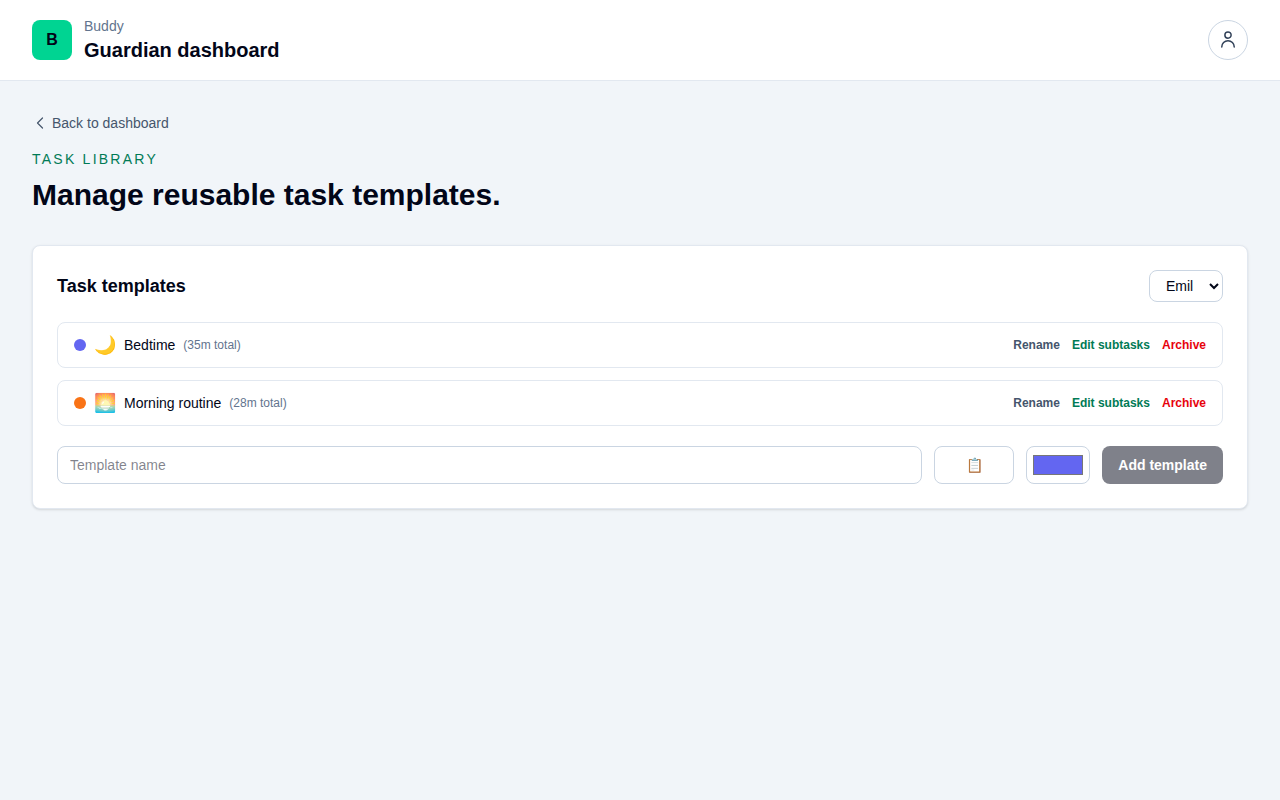
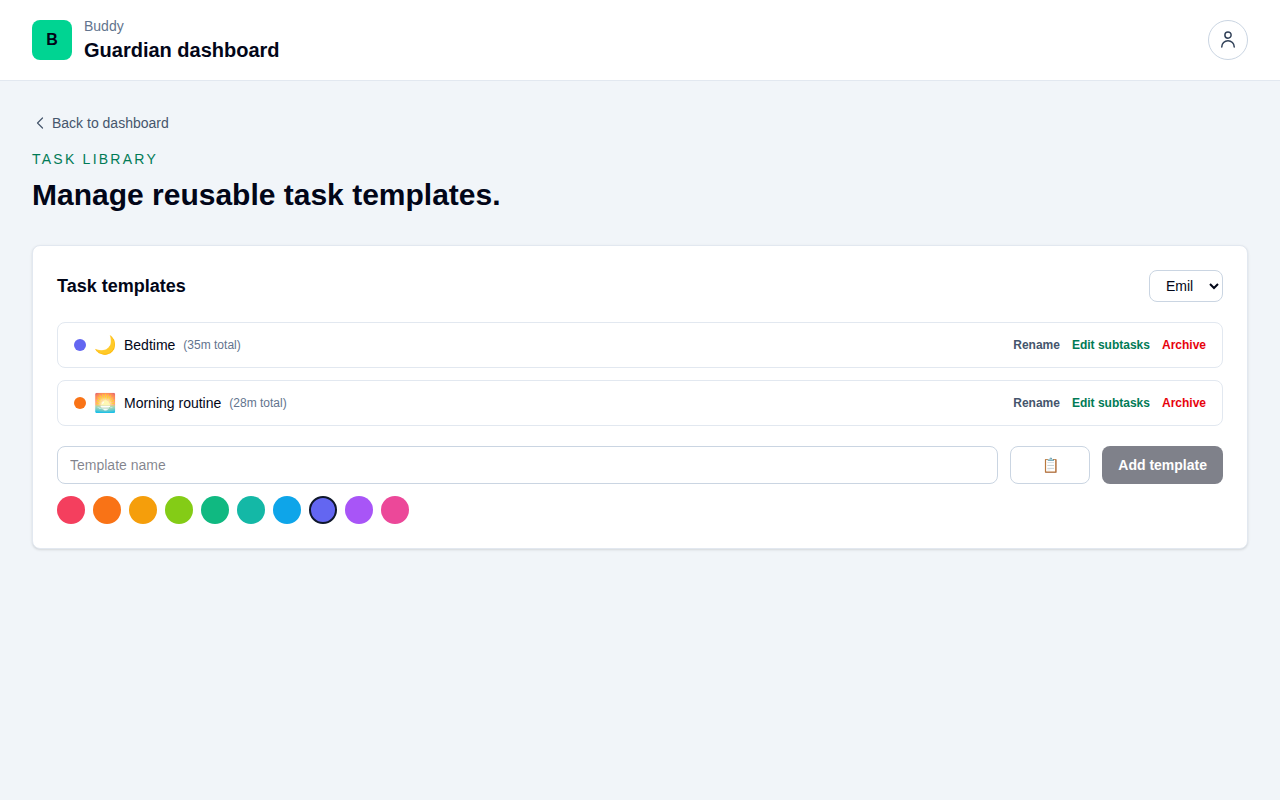
feat: implement color swatch picker for meal and task templates

Changed region(s): [[0.0312, 0.625, 0.3438, 0.6562], [0.75, 0.5625, 0.8438, 0.5938]]

diff --git a/src/frontend/buddy/src/app/features/guardian/mealplan/manage-meals/manage-meals.html b/src/frontend/buddy/src/app/features/guardian/mealplan/manage-meals/manage-meals.html
@@ -98,7 +98,7 @@
       </p>
     } @else {
       <form
-        class="mt-5 grid gap-3 sm:grid-cols-2 lg:grid-cols-[1fr_1fr_5rem_4rem_auto]"
+        class="mt-5 grid gap-3 sm:grid-cols-2 lg:grid-cols-[1fr_1fr_5rem_auto]"
         (ngSubmit)="createMeal()"
       >
         <input
@@ -128,14 +128,13 @@
           [ngModel]="newMealIcon()"
           (ngModelChange)="newMealIcon.set($event)"
         />
-        <input
-          type="color"
-          name="mealColor"
-          aria-label="{{ 'common.colorLabel' | translate }}"
-          class="h-full w-full rounded-lg border border-slate-300 p-1"
-          [ngModel]="newMealColor()"
-          (ngModelChange)="newMealColor.set($event)"
-        />
+        <div class="sm:col-span-2 lg:col-span-full lg:row-start-2">
+          <app-color-swatch-picker
+            [value]="newMealColor()"
+            [ariaLabel]="'common.colorLabel' | translate"
+            (valueChange)="newMealColor.set($event)"
+          />
+        </div>
         <button
           type="submit"
           class="rounded-lg bg-slate-950 px-4 py-2 text-sm font-semibold text-white transition hover:bg-slate-800 dark:bg-emerald-600 dark:hover:bg-emerald-500 disabled:opacity-50"

diff --git a/src/frontend/buddy/src/app/features/guardian/task-library/manage-tasks/manage-tasks.html b/src/frontend/buddy/src/app/features/guardian/task-library/manage-tasks/manage-tasks.html
@@ -374,7 +374,7 @@
     }
 
     <form
-      class="mt-5 grid gap-3 sm:grid-cols-2 lg:grid-cols-[1fr_5rem_4rem_auto]"
+      class="mt-5 grid gap-3 sm:grid-cols-2 lg:grid-cols-[1fr_5rem_auto]"
       (ngSubmit)="createTemplate()"
     >
       <input
@@ -395,14 +395,13 @@
         [ngModel]="newTemplateIcon()"
         (ngModelChange)="newTemplateIcon.set($event)"
       />
-      <input
-        type="color"
-        name="templateColor"
-        aria-label="{{ 'common.colorLabel' | translate }}"
-        class="h-full w-full rounded-lg border border-slate-300 dark:border-slate-600 p-1"
-        [ngModel]="newTemplateColor()"
-        (ngModelChange)="newTemplateColor.set($event)"
-      />
+      <div class="sm:col-span-2 lg:col-span-full lg:row-start-2">
+        <app-color-swatch-picker
+          [value]="newTemplateColor()"
+          [ariaLabel]="'common.colorLabel' | translate"
+          (valueChange)="newTemplateColor.set($event)"
+        />
+      </div>
       <button
         type="submit"
         class="rounded-lg bg-slate-950 px-4 py-2 text-sm font-semibold text-white transition hover:bg-slate-800 disabled:opacity-50 dark:bg-emerald-600 dark:hover:bg-emerald-500"

diff --git a/src/frontend/buddy/src/app/features/guardian/mealplan/manage-meals/manage-meals.spec.ts b/src/frontend/buddy/src/app/features/guardian/mealplan/manage-meals/manage-meals.spec.ts
@@ -109,8 +109,8 @@ describe('ManageMeals', () => {
     return compiled.querySelector('input[name="mealIcon"]')!;
   }
 
-  function colorInput(compiled: HTMLElement): HTMLInputElement {
-    return compiled.querySelector('input[name="mealColor"]')!;
+  function colorSwatch(compiled: HTMLElement, color: string): HTMLButtonElement {
+    return compiled.querySelector(`app-color-swatch-picker [role="radio"][aria-label="${color}"]`)!;
   }
 
   it('shows a loading message while meals are loading', async () => {
@@ -279,7 +279,7 @@ describe('ManageMeals', () => {
       const compiled = fixture.nativeElement as HTMLElement;
       setInputValue(nameInput(compiled), '  Waffles  ');
       setInputValue(iconInput(compiled), ' 🧇 ');
-      setInputValue(colorInput(compiled), '#123456');
+      colorSwatch(compiled, '#0ea5e9').click();
       fixture.detectChanges();
 
       compiled.querySelector('form')!.dispatchEvent(new Event('submit'));
@@ -289,7 +289,7 @@ describe('ManageMeals', () => {
         name: 'Waffles',
         description: '',
         icon: '🧇',
-        color: '#123456',
+        color: '#0ea5e9',
       });
     });
 

diff --git a/src/frontend/buddy/src/app/features/guardian/task-library/manage-tasks/manage-tasks.spec.ts b/src/frontend/buddy/src/app/features/guardian/task-library/manage-tasks/manage-tasks.spec.ts
@@ -452,6 +452,28 @@ describe('ManageTasks', () => {
       expect(compiled.textContent).toContain('Subtasks');
     });
 
+    it('submits the color picked from the swatch list', async () => {
+      const { fixture, taskLibrary } = await setup();
+      await settle(fixture);
+
+      const compiled = fixture.nativeElement as HTMLElement;
+      setInputValue(templateNameInput(compiled), 'Bedtime routine');
+      setInputValue(templateIconInput(compiled), '🌙');
+      compiled
+        .querySelector<HTMLButtonElement>(
+          'app-color-swatch-picker [role="radio"][aria-label="#0ea5e9"]',
+        )!
+        .click();
+      fixture.detectChanges();
+      compiled.querySelector('form')!.dispatchEvent(new Event('submit'));
+      await settle(fixture);
+
+      expect(taskLibrary.createTaskTemplate).toHaveBeenCalledWith(
+        'child-1',
+        expect.objectContaining({ color: '#0ea5e9' }),
+      );
+    });
+
     it('resets the form after a successful create', async () => {
       const { fixture } = await setup();
       await settle(fixture);

diff --git a/src/frontend/buddy/src/app/features/guardian/mealplan/manage-meals/manage-meals.ts b/src/frontend/buddy/src/app/features/guardian/mealplan/manage-meals/manage-meals.ts
@@ -9,6 +9,7 @@ import {
   MealplansService,
 } from '../../../../core/mealplans.service';
 import { createAction } from '../../../../shared/action-state/action-state';
+import { ColorSwatchPicker } from '../../../../shared/color-swatch-picker/color-swatch-picker';
 
 const DEFAULT_COLOR = '#10b981';
 const PAGE_SIZE = 5;
@@ -16,7 +17,7 @@ const MANAGE: MealplanAccessTier = 2;
 
 @Component({
   selector: 'app-manage-meals',
-  imports: [FormsModule, TranslatePipe],
+  imports: [FormsModule, TranslatePipe, ColorSwatchPicker],
   templateUrl: './manage-meals.html',
 })
 export class ManageMeals {
